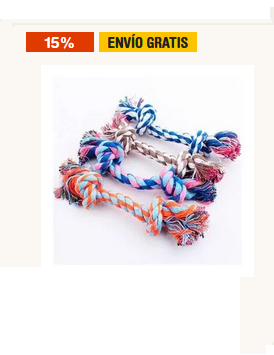
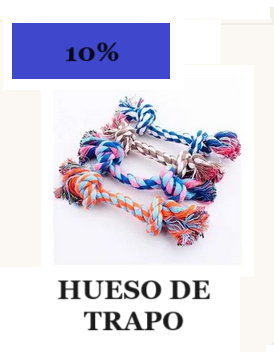
MODIFIC-PAG. TODO FUNCIONA PERFECTO

Changed region(s): [[0.1752, 0.2812, 0.8759, 0.7188], [0.0292, 0.0625, 0.7299, 0.25], [0.2044, 0.7812, 0.7591, 0.9375]]

diff --git a/accesorios.html b/accesorios.html
@@ -1,0 +1,137 @@
+<!DOCTYPE html>
+<html lang="es">
+
+<head>
+  <meta charset="UTF-8" />
+  <meta name="viewport" content="width=device-width, initial-scale=1.0" />
+  <meta name="keywords" content="tienda de accesorios, accesorios para mascotas" />
+  <meta name="description"
+    content="Descubre una amplia selección de accesorios para tu mascota, en nuestra tienda en línea." />
+  <meta name="author"
+    content="Maria Celeste Quiroga H, Maria Celeste Verduz, Facundo Di Pompo, Marta Vargas, Remigio Guerrero" />
+
+  <title>Casa Campo</title>
+  <!-- link CSS -->
+  <link rel="stylesheet" href="css/galeria.css" />
+  <!-- link Bootstrap -->
+  <link href="https://cdn.jsdelivr.net/npm/bootstrap@5.3.2/dist/css/bootstrap.min.css" rel="stylesheet"
+    integrity="sha384-T3c6CoIi6uLrA9TneNEoa7RxnatzjcDSCmG1MXxSR1GAsXEV/Dwwykc2MPK8M2HN" crossorigin="anonymous" />
+</head>
+
+<body>
+  <!-- Seccion navbar -->
+  <nav class="navbar navbar-light navbar-expand-lg fixed-top" style="background-color: #e3f2fd">
+    <div class="container-fluid">
+      <a class="navbar-brand" href="index.html"><img src="img/logo.jpeg" alt="Soy un logo" height="120"
+          class="logo" /></a>
+      <button class="navbar-toggler" type="button" data-bs-toggle="collapse" data-bs-target="#navbarSupportedContent"
+        aria-controls="navbarSupportedContent" aria-expanded="false" aria-label="Toggle navigation">
+        <span class="navbar-toggler-icon"></span>
+      </button>
+      <div class="collapse navbar-collapse" id="navbarSupportedContent">
+        <ul class="navbar-nav me-auto mb-2 mb-lg-0">
+          <li class="nav-item">
+            <a class="nav-link active" aria-current="page" href="index.html">Inicio</a>
+          </li>
+          <li class="nav-item">
+            <a class="nav-link" href="alimentos.html">Alimentos</a>
+          </li>
+          <li class="nav-item">
+            <a class="nav-link" href="acerca-de.html">Acerca de nosotros</a>
+          </li>
+          <li class="nav-item">
+            <a class="nav-link" href="contacto.html">Contacto</a>
+          </li>
+          <li class="nav-item">
+            <a class="nav-link" href="carrito.html">Carrito</a>
+          </li>
+          <li class="nav-item dropdown">
+            <a class="nav-link dropdown-toggle" href="#" role="button" data-bs-toggle="dropdown" aria-expanded="false">
+              Mi cuenta
+            </a>
+            <ul class="dropdown-menu">
+              <li>
+                <a class="dropdown-item" href="login.html">Iniciar sesión</a>
+              </li>
+              <li>
+                <a class="dropdown-item" href="registro.html">Registrarse</a>
+              </li>
+            </ul>
+          </li>
+        </ul>
+      </div>
+    </div>
+  </nav>
+  <!-- Seccion principal -->
+  <!-- para no olvidar -->
+
+  <main>
+    <h1 class="titulo">ACCESORIOS - VENTA SOLO EN EL LOCAL</h1>
+    <div class="contenedor">
+      <div class="libro-galeria">
+        <img src="img/img-promociones/transportadora.png" style="max-width: 48%" />
+        </a>
+      </div>
+      <div class="libro-galeria">
+        <img src="img/img-promociones/mordillo.png" style="max-width: 50%" />
+        </a>
+      </div>
+      <div class="libro-galeria">
+        <img src="img/img-promociones/cuchita-perro.png" style="max-width: 50%" />
+        </a>
+      </div>
+      <div class="libro-galeria">
+        <img src="img/img-promociones/capita navideña.png" style="max-width: 50%" />
+        </a>
+      </div>
+      <div class="libro-galeria">
+        <img src="img/img-promociones/cepillo.png" style="max-width: 50%" />
+        </a>
+      </div>
+      <div class="libro-galeria">
+        <img src="img/img-promociones/comedero plastico.png" style="max-width: 50%" />
+        </a>
+      </div>
+      <div class="libro-galeria">
+        <img src="img/img-promociones/hueso.png" style="max-width: 50%" />
+        </a>
+      </div>
+      <div class="libro-galeria">
+        <img src="img/img-promociones/pelota enlazada.png" style="max-width: 50%" />
+        </a>
+      </div>
+    </div>
+  </main>
+  <!-- Seccion footer -->
+  <footer>
+    <div class="footer-grid">
+      <div class="logo">
+        <img src="img/logo.jpeg" style="max-width: 20%" alt="Soy el Logo" />
+        <p>CASA CAMPO</p>
+      </div>
+      <div class="social">
+        <h5>Buscanos en Nuestras Redes Sociales</h5>
+        <p>
+          <img src="img/facebook.jpg" style="max-width: 3%" alt="Logo facebook" /> <a
+            href="https://m.facebook.com/groups/863675708693839/?paipv=0&eav=AfY00-9UhOoAMMV57eZOBmC4HNAlGcYw3Nl7Tj2DDkxXhXKyOoERrkYLqFoAfSnWyPw">@casa
+            campo</a>
+        </p>
+        <p>
+          <img src="img/ig.png" style="max-width: 3%" alt="Logo Instagram" />casa-campo
+        </p><br><br>
+        <p>Copyright © 2023</p>
+      </div>
+      <div class="contact">
+        <h5>Contacto</h5>
+        <p>Av. Landajo 350 - Depto Cruz Alta</p>
+        <p>Provincia Tucumán</p>
+        <p>Tel.: 3814922047 - 3814138041</p>
+      </div>
+    </div>
+  </footer>
+  <script src="https://cdn.jsdelivr.net/npm/bootstrap@5.3.2/dist/js/bootstrap.bundle.min.js"
+    integrity="sha384-C6RzsynM9kWDrMNeT87bh95OGNyZPhcTNXj1NW7RuBCsyN/o0jlpcV8Qyq46cDfL"
+    crossorigin="anonymous"></script>
+</body>
+
+</html>

diff --git a/index.html b/index.html
@@ -106,8 +106,8 @@
             <div class="list-group">
               <h2>Categorías</h2>
               <a href="alimentos.html" class="list-group-item list-group-item-action">Alimentos</a>
-              <a href=".." class="list-group-item list-group-item-action">Promociones</a>
-              <a href=".." class="list-group-item list-group-item-action">Accesorios</a>
+             <!--   <a href=".." class="list-group-item list-group-item-action">Promociones</a> -->
+              <a href="accesorios.html" class="list-group-item list-group-item-action">Algunas Promociones</a>
 
               <!-- Agrega más categorías aquí -->
             </div>

diff --git a/css/nuevo-log.css b/css/nuevo-log.css
@@ -25,12 +25,9 @@
   border: 100px;;
   text-align: center;
   border-radius: 3px;
-  background-color: #a5dbdd;
   padding: 10px;
   margin: 0 auto;
   width: 350px;
-  color: grey;
-  box-shadow: 0px 0px 8px grey;
   display: flex;
   flex-direction: column; 
   top: 0.5px;
